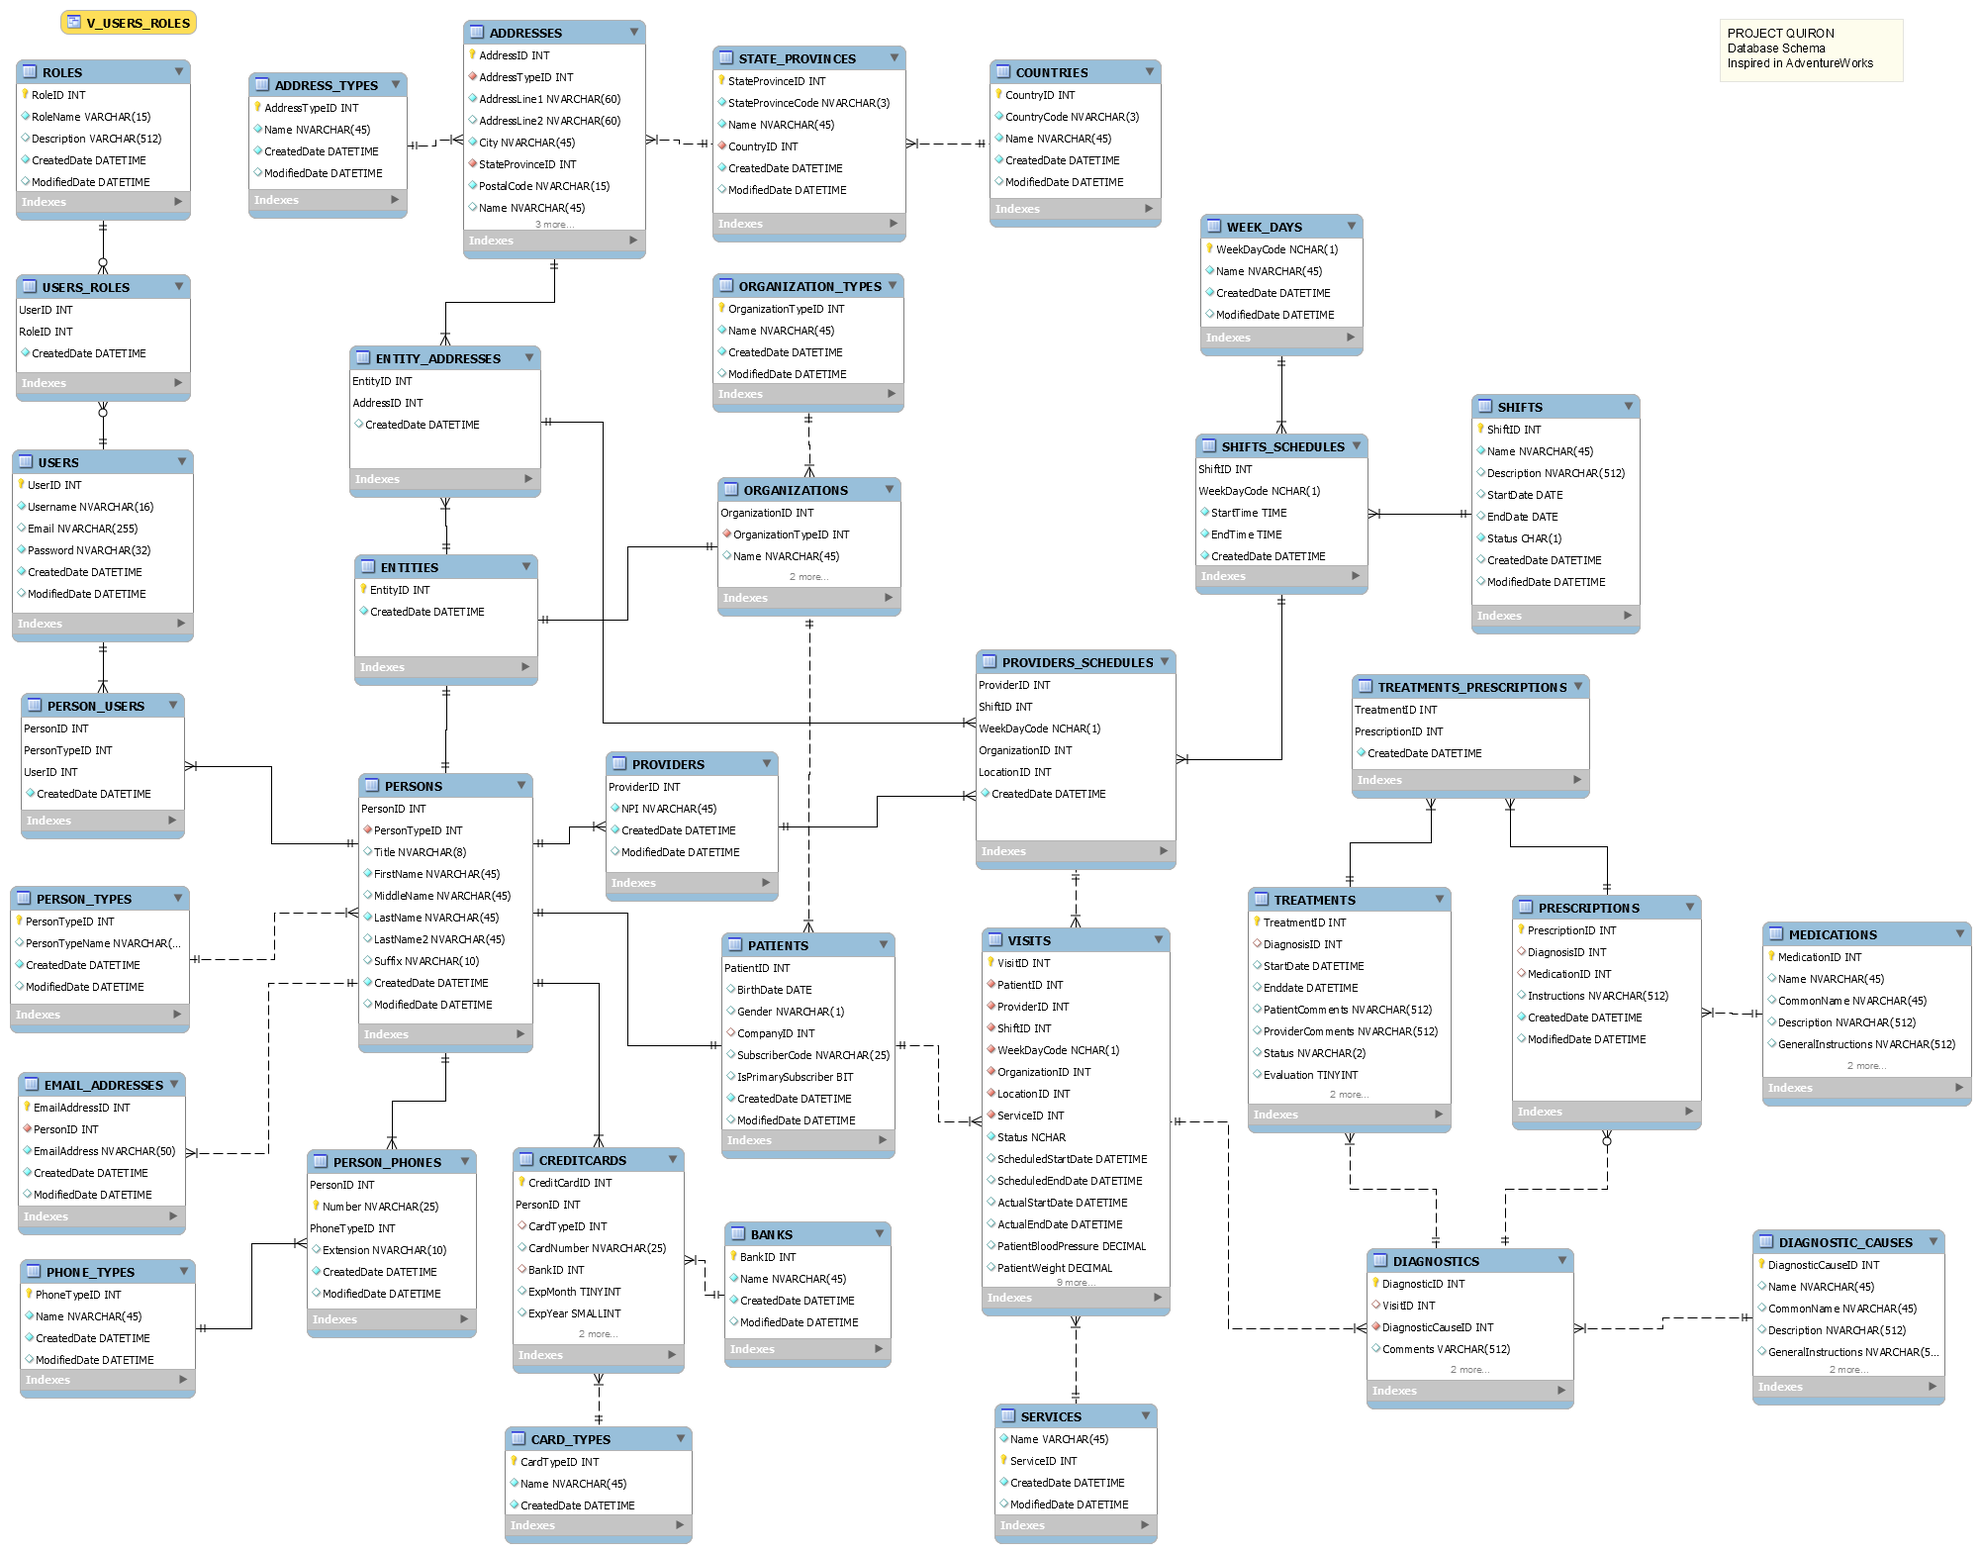
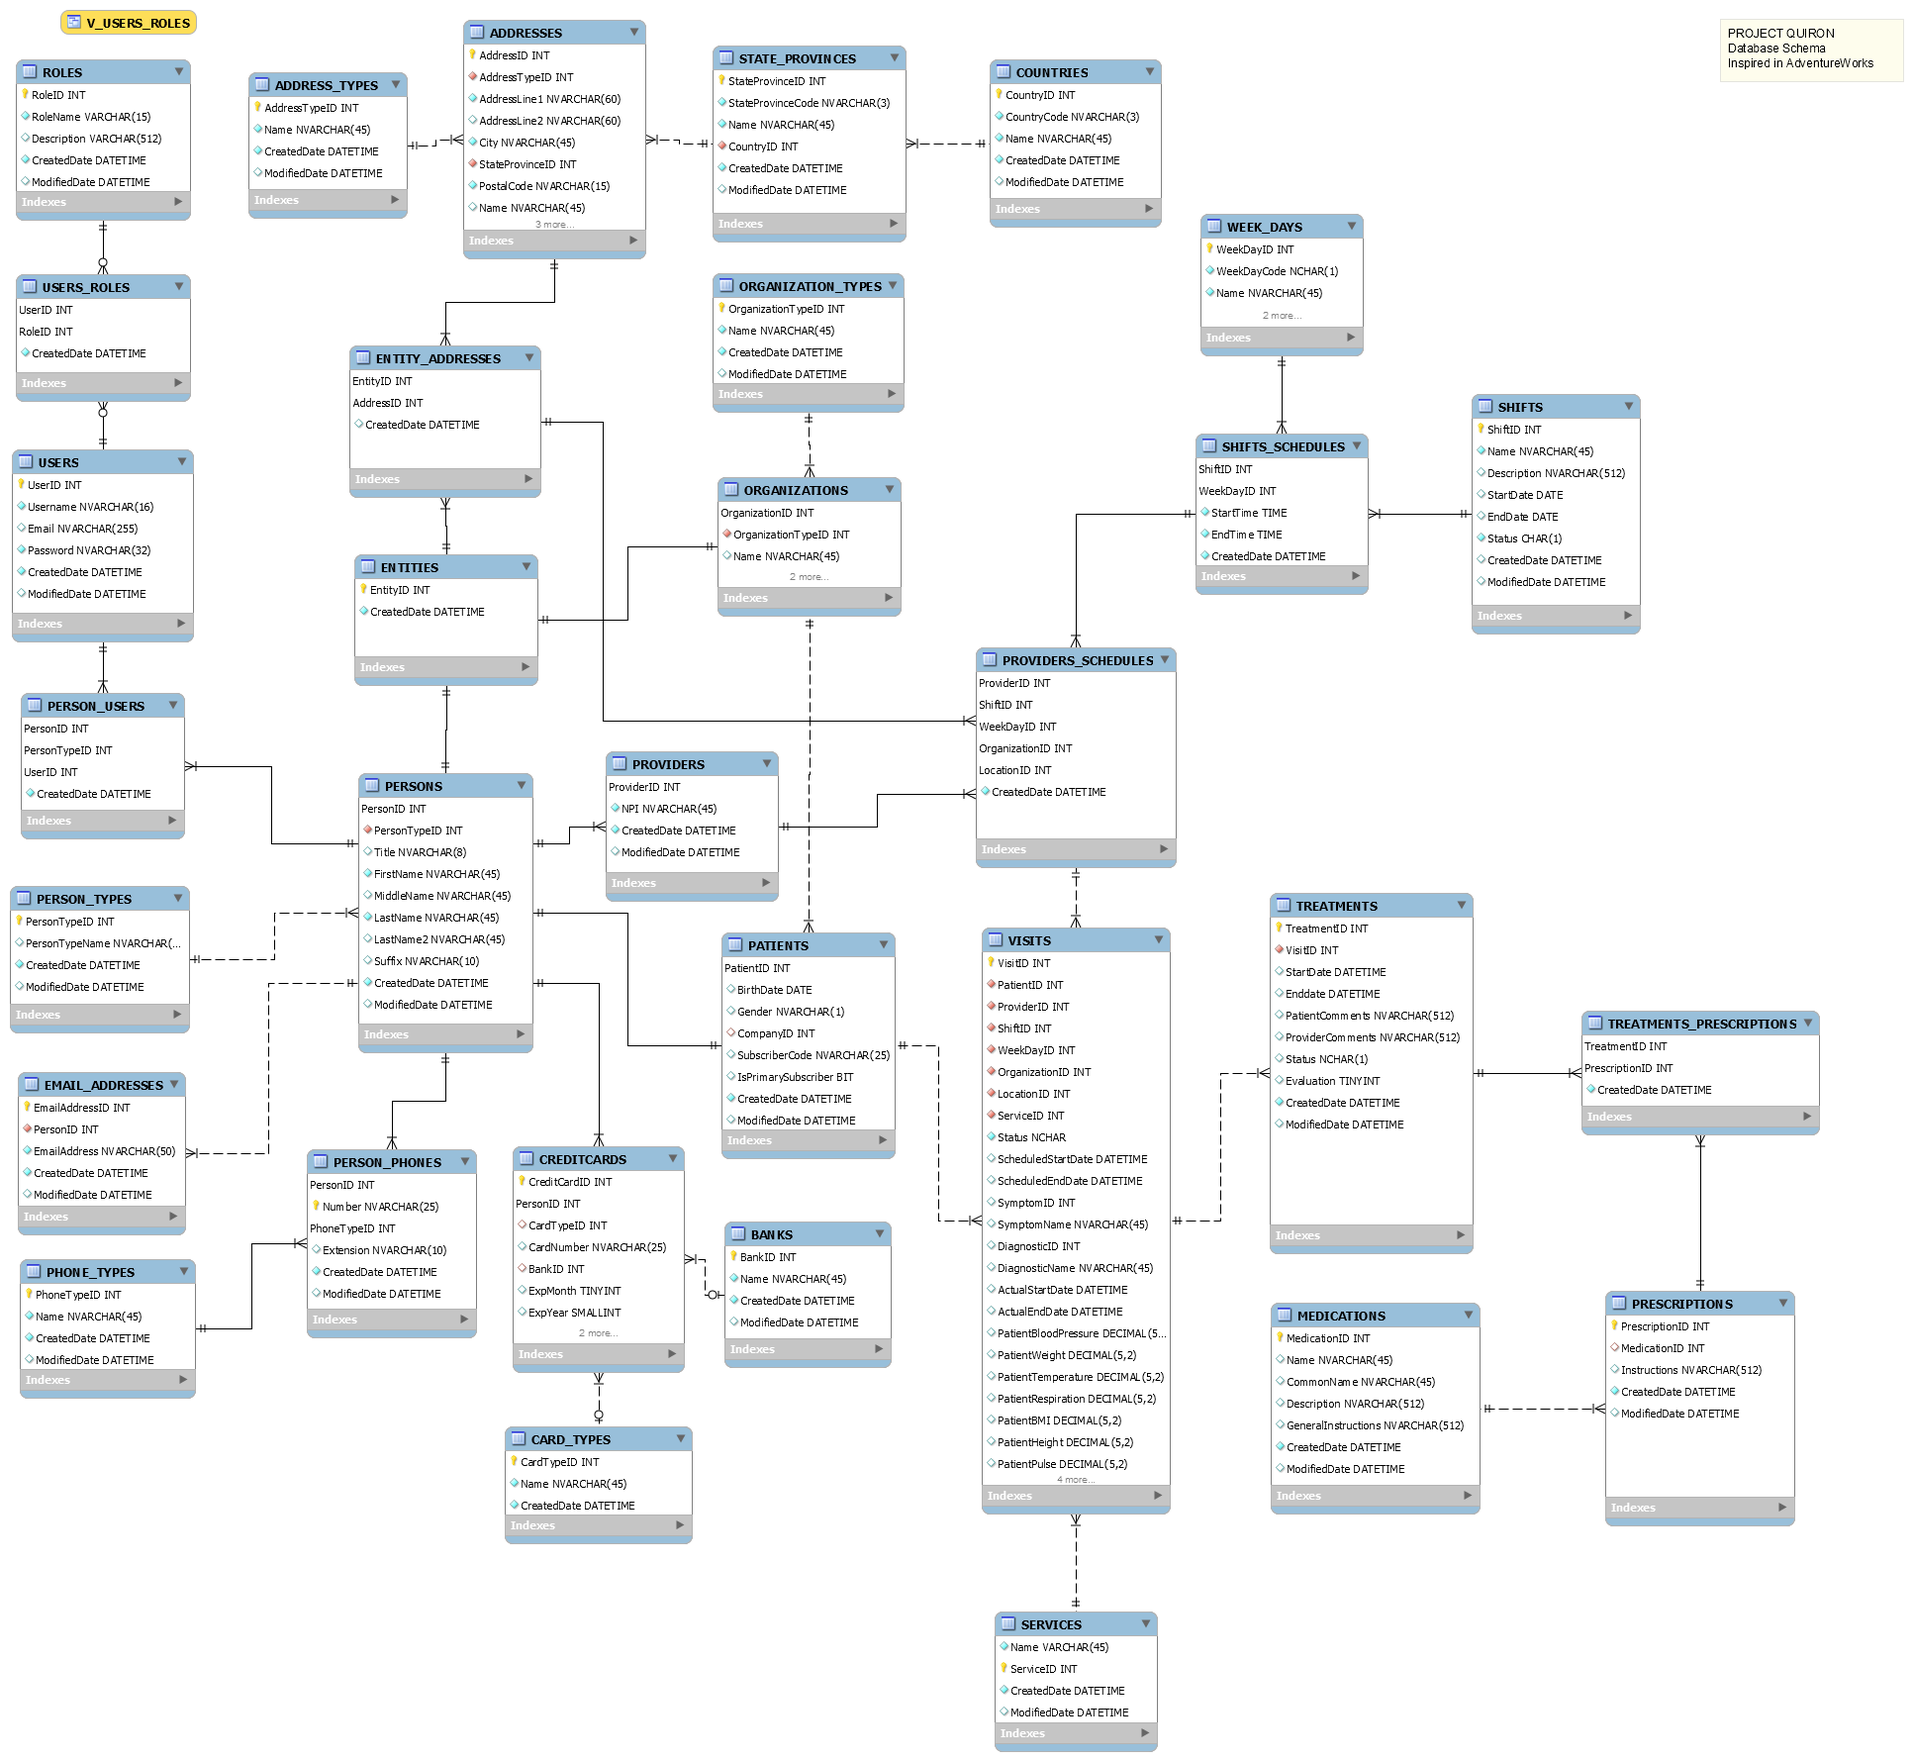
Modifying database structure by moving Symptoms and Diagnostics fields from table TREATMENTS to VISITS.

Changed region(s): [[0.0, 0.0, 1.0, 0.9994], [0.4966, 0.9057, 0.6208, 0.9994], [0.8691, 0.0, 0.9622, 0.0625]]

diff --git a/src/main/webapp/style/css/main.css b/src/main/webapp/style/css/main.css
@@ -18,7 +18,7 @@ body {
 }
 
 footer {
-    border-top: 1px solid #777777;
+    border-top: 1px solid #d2d6da;
     margin-top: 5rem;
     padding-top: 2rem;
 }

diff --git a/src/test/java/co/net/quiron/application/care/TreatmentManagerTest.java b/src/test/java/co/net/quiron/application/care/TreatmentManagerTest.java
@@ -42,8 +42,8 @@ public class TreatmentManagerTest {
     @Test
     void testGetTreatmentById() {
         Treatment treatment = treatmentManager.get(1);
-        String symptom = treatment.getSymptomName();
-        assertEquals("Sore throat", symptom);
+        String comments = treatment.getPatientComments();
+        assertEquals("I feel better now", comments);
     }
 
     /**
@@ -85,7 +85,7 @@ public class TreatmentManagerTest {
 
         Visit visit = visitManager.get(3);
 
-        Treatment newTreatment = new Treatment(visit, symptomId, symptomName, diagnosticId, diagnosticName);
+        Treatment newTreatment = new Treatment(visit);
         newTreatment.setStartDate(startDate);
         newTreatment.setEndDate(endDate);
         newTreatment.setPatientComments(patientComments);
@@ -96,8 +96,8 @@ public class TreatmentManagerTest {
         Treatment insertedTreatment = treatmentManager.create(newTreatment);
 
         assertNotNull(insertedTreatment);
-        assertEquals(symptomName, insertedTreatment.getSymptomName());
-        assertEquals(diagnosticName, insertedTreatment.getDiagnosticName());
+        assertEquals(status, insertedTreatment.getStatus());
+        assertEquals(providerComments, insertedTreatment.getProviderComments());
     }
 
     /**
@@ -107,17 +107,19 @@ public class TreatmentManagerTest {
     void testUpdateTreatment() {
 
         int treatmentId = 1;
-        int newSymptomId = 20;
+        int newEvaluation = 3;
+        String newStatus = "D";
         String newSymptomName = "Symptom 20";
 
         Treatment treatmentToUpdate = treatmentManager.get(treatmentId);
-        treatmentToUpdate.setSymptomId(newSymptomId);
-        treatmentToUpdate.setSymptomName(newSymptomName);
+        treatmentToUpdate.setStatus(newStatus);
+        treatmentToUpdate.setEvaluation(newEvaluation);
 
         treatmentManager.update(treatmentToUpdate);
         Treatment treatmentUpdated = treatmentManager.get(treatmentId);
 
-        assertEquals(newSymptomName, treatmentUpdated.getSymptomName());
+        assertEquals(newEvaluation, treatmentUpdated.getEvaluation());
+        assertEquals(newStatus, treatmentUpdated.getStatus());
     }
 
     /**
@@ -128,14 +130,16 @@ public class TreatmentManagerTest {
 
         int treatmentIdToDelete = 3;
 
+/*
         int symptomId = 1;
         String symptomName = "Sore throat";
         int diagnosticId = 1;
         String diagnosticName = "Diagnsotic 1";
+*/
 
         Visit visit = visitManager.get(3);
 
-        Treatment newTreatment = new Treatment(visit, symptomId, symptomName, diagnosticId, diagnosticName);
+        Treatment newTreatment = new Treatment(visit);
         Treatment insertedTreatment = treatmentManager.create(newTreatment);
 
         treatmentManager.delete(treatmentManager.get(treatmentIdToDelete));
@@ -151,10 +155,12 @@ public class TreatmentManagerTest {
         int prescriptionId = 2;
         String intructions = "100 mg every 12 hours, not to exceed 200 mg in 24 hours.";
 
+/*
         int symptomId = 1;
         String symptomName = "Sore throat";
         int diagnosticId = 1;
         String diagnosticName = "Diagnsotic 1";
+*/
         LocalDate startDate = LocalDate.parse("2018-02-01");
         LocalDate endDate = LocalDate.parse("2018-02-08");
         String patientComments = "";
@@ -164,7 +170,7 @@ public class TreatmentManagerTest {
 
         Visit visit = visitManager.get(3);
 
-        Treatment newTreatment = new Treatment(visit, symptomId, symptomName, diagnosticId, diagnosticName);
+        Treatment newTreatment = new Treatment(visit);
         newTreatment.setStartDate(startDate);
         newTreatment.setEndDate(endDate);
         newTreatment.setPatientComments(patientComments);
@@ -182,8 +188,10 @@ public class TreatmentManagerTest {
         Prescription newPrescription = insertedTreatment.getPrescriptions().stream().findFirst().get();
 
         assertNotNull(insertedTreatment);
+/*
         assertEquals(symptomName, insertedTreatment.getSymptomName());
         assertEquals(diagnosticName, insertedTreatment.getDiagnosticName());
+*/
         assertEquals(1,prescriptionsAssigned);
         assertEquals(intructions, newPrescription.getInstructions());
     }

diff --git a/src/main/java/co/net/quiron/controller/care/VisitForm.java b/src/main/java/co/net/quiron/controller/care/VisitForm.java
@@ -1,7 +1,8 @@
-package co.net.quiron.controller.patient;
+package co.net.quiron.controller.care;
 
 import co.net.quiron.application.account.AccountManager;
 import co.net.quiron.application.account.ProfileManager;
+import co.net.quiron.application.care.VisitManager;
 import co.net.quiron.application.factory.ManagerFactory;
 import co.net.quiron.application.shared.EntityManager;
 import co.net.quiron.domain.care.Visit;
@@ -21,10 +22,10 @@ import java.util.List;
 import java.util.stream.Collectors;
 
 @WebServlet(
-        name = "patient-visit",
-        urlPatterns = "/patient/visit"
+        name = "visit",
+        urlPatterns = {"/patient/visit", "/provider/visit"}
 )
-public class MyVisit extends HttpServlet {
+public class VisitForm extends HttpServlet {
 
     @Override
     public void doGet (HttpServletRequest request,
@@ -33,19 +34,21 @@ public class MyVisit extends HttpServlet {
         HttpSession session = request.getSession();
 
         String url = "/care/visit.jsp";
-        String title = "My MyVisit";
-        request.setAttribute("title", title);
-        session.setAttribute("currentPage", "My Visits");
-
+        String title = "My Visit";
+        String personType = (String) session.getAttribute("personType");
         String username = request.getUserPrincipal().getName();
+
+        request.setAttribute("title", title);
+        session.setAttribute("currentPage", "My Visit");
+
         AccountManager accountManager =  new AccountManager();
         ProfileManager profileManager = new ProfileManager();
-        EntityManager<Visit> visitManager = ManagerFactory.getManager(Visit.class);
-        String personType = (String) session.getAttribute("personType");
 
-        accountManager.loadUserAccount(username,personType);
+        //EntityManager<Visit> visitManager = ManagerFactory.getManager(Visit.class);
 
-        session.setAttribute("username", username);
+        VisitManager visitManager = new VisitManager(username, personType);
+
+        //accountManager.loadUserAccount(username,personType);
 
         Visit visit = new Visit();
 
@@ -53,18 +56,11 @@ public class MyVisit extends HttpServlet {
                 && !request.getParameter("id").isEmpty())){
 
             int visitId = Integer.parseInt(request.getParameter("id"));
-            visit = visitManager.get(visitId);
-        }
+            visit = visitManager.getPatientVisit(visitId);
 
+        }
         request.setAttribute("visit", visit);
-
-        if (visit == null) {
-            Message message = new Message();
-            message.setType(MessageType.ERROR);
-            message.setDescription("Record not found");
-            accountManager.setMessage(message);
-            session.setAttribute("message", message);
-        }
+        session.setAttribute("message", visitManager.getMessage());
 
         RequestDispatcher dispatcher = request.getRequestDispatcher(url);
         dispatcher.forward(request, response);

diff --git a/src/main/java/co/net/quiron/domain/care/Visit.java b/src/main/java/co/net/quiron/domain/care/Visit.java
@@ -15,7 +15,7 @@ import java.util.HashSet;
 import java.util.Set;
 
 /**
- * This class represents MyVisit domain for the application.
+ * This class represents VisitForm domain for the application.
  *
  * @autor yperea
  */
@@ -69,6 +69,22 @@ public class Visit {
     @Column(name = "ScheduledEndDate")
     private LocalDate scheduledEndDate;
 
+    @NonNull
+    @Column(name = "SymptomID")
+    private int symptomId;
+
+    @NonNull
+    @Column(name = "SymptomName")
+    private String symptomName;
+
+    @NonNull
+    @Column(name = "DiagnosticID")
+    private int diagnosticId;
+
+    @NonNull
+    @Column(name = "DiagnosticName")
+    private String diagnosticName;
+
     @Column(name = "ActualStartDate")
     private LocalDate actualStartDate;
 
@@ -88,7 +104,7 @@ public class Visit {
     private double patientRespiration;
 
     @Column(name = "PatientBMI")
-    private double patientBmi;
+    private double patientBMI;
 
     @Column(name = "PatientHeight")
     private double patientHeight;

diff --git a/src/test/java/co/net/quiron/application/account/UserManagerTest.java b/src/test/java/co/net/quiron/application/account/UserManagerTest.java
@@ -112,7 +112,7 @@ class UserManagerTest {
         userManager.update(userToUpdate);
         User userUpdated = userManager.get(userId);
 
-        assertEquals(userToUpdate, userUpdated);
+        assertEquals(newUserName, userUpdated.getUsername());
         assertNotNull(userUpdated.getModifiedDate());
     }
 
@@ -179,7 +179,7 @@ class UserManagerTest {
         Role newRole = userUpdated.getRoles().stream().findFirst().get();
 
         assertEquals(1,rolesAssigned);
-        assertEquals(adminRole, newRole);
+        assertEquals(adminRole.getName(), newRole.getName());
     }
 
     /**
@@ -210,6 +210,6 @@ class UserManagerTest {
         assertEquals("1234", insertedUser.getPassword());
         assertNotNull(insertedUser.getCreatedDate());
         assertEquals(1,rolesAssigned);
-        assertEquals(userRole, newRole);
+        assertEquals(userRole.getName(), newRole.getName());
     }
 }

diff --git a/src/main/java/co/net/quiron/application/care/VisitManager.java b/src/main/java/co/net/quiron/application/care/VisitManager.java
@@ -81,4 +81,23 @@ public class VisitManager {
         return visits;
     }
 
+    public Visit getPatientVisit(int visitId) {
+
+        EntityManager<Patient> patientAgent = ManagerFactory.getManager(Patient.class);
+        Map<String, Object> params = new TreeMap<>();
+        int patientId = accountManager.getId();
+        Patient patient = patientAgent.get(patientId);
+        params.put("patient", patient);
+
+        Visit visit = visitAgent.get(visitId);
+
+        if (visit == null) {
+            message.setType(MessageType.WARNING);
+            message.setDescription("Record not found");
+        }
+
+        return visit;
+    }
+
+
 }

diff --git a/src/main/java/co/net/quiron/domain/care/Treatment.java b/src/main/java/co/net/quiron/domain/care/Treatment.java
@@ -40,6 +40,7 @@ public class Treatment {
     @JoinColumn(name = "VisitID")
     private Visit visit;
 
+/*
     @NonNull
     @Column(name = "SymptomID")
     private int symptomId;
@@ -55,6 +56,7 @@ public class Treatment {
     @NonNull
     @Column(name = "DiagnosticName")
     private String diagnosticName;
+*/
 
     @Column(name = "StartDate")
     private LocalDate startDate;

diff --git a/src/test/java/co/net/quiron/application/account/AccountManagerTest.java b/src/test/java/co/net/quiron/application/account/AccountManagerTest.java
@@ -73,8 +73,8 @@ class AccountManagerTest {
      */
     @Test
     void loadUserAccount() {
-        String userName = "yesper";
-        String firstName = "Yesid";
+        String userName = "jconstantine";
+        String firstName = "John";
         String personType = "patient";
 
         accountManager.loadUserAccount(userName, personType);

diff --git a/src/main/java/co/net/quiron/controller/care/VisitList.java b/src/main/java/co/net/quiron/controller/care/VisitList.java
@@ -33,7 +33,6 @@ public class VisitList extends HttpServlet {
         session.setAttribute("currentPage", "My Visits");
 
         String state = "A";
-
         if ((request.getParameter("state") != null && !request.getParameter("state").isEmpty())){
             switch (request.getParameter("state")) {
                 case "completed":

diff --git a/src/test/java/co/net/quiron/application/account/RoleManagerTest.java b/src/test/java/co/net/quiron/application/account/RoleManagerTest.java
@@ -83,7 +83,7 @@ class RoleManagerTest {
         roleManager.update(roleToUpdate);
         Role roleUpdated = roleManager.get(roleId);
 
-        assertEquals(roleToUpdate, roleUpdated);
+        assertEquals(newRoleName, roleUpdated.getName());
         assertNotNull(roleUpdated.getModifiedDate());
     }
 

diff --git a/README.md b/README.md
@@ -1,7 +1,7 @@
 # Project Quiron
 
 ### Problem Statement
-Although health sector is traditionally a conservative and slow-adapting industry, there is an increasing volume of new tools providing new alternatives to provide medical care to patients in very innovative ways, such as web platforms where video-on-demand MyVisit can be made with a variety of physicians, therapists, specialists and health professionals in general. For instance, websites like [amwell.com](https://www.amwell.com) or [livehealthonline.com](https://www.livehealthonline.com).
+Although health sector is traditionally a conservative and slow-adapting industry, there is an increasing volume of new tools providing new alternatives to provide medical care to patients in very innovative ways, such as web platforms where video-on-demand VisitForm can be made with a variety of physicians, therapists, specialists and health professionals in general. For instance, websites like [amwell.com](https://www.amwell.com) or [livehealthonline.com](https://www.livehealthonline.com).
 
 However, if these types of tools serve as an excellent way to provide wider access to medical care, sometimes we would like to know what happens next ... after the visit is over.
 
@@ -20,7 +20,7 @@ I would like to build a platform that allows for better control of medical treat
 * Database
     * MySQL
     * Store patients and providers
-    * Store all data of MyVisit and treatments
+    * Store all data of VisitForm and treatments
 * ORM Framework
     * Hibernate 5
 * Dependency Management

diff --git a/PROJECTPLAN.md b/PROJECTPLAN.md
@@ -45,7 +45,7 @@
 - [ ] Prepare Professional Development Presentation.
 
 ### Week 8 AWS CI Presentation
-- [ ] Build MyVisit and treatment tracking jsps for Patients and Providers views.
+- [ ] Build VisitForm and treatment tracking jsps for Patients and Providers views.
 - [ ] Prepare for Checkpoint 3: Deployed to AWS, at least one JSP that displays data from the database is implemented.
 - [ ] Implement Hibernate Validator (?)
 
